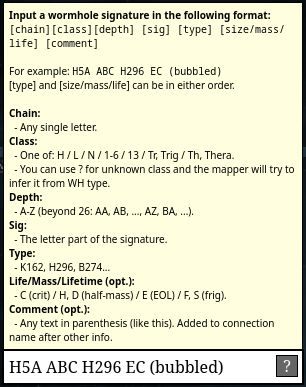
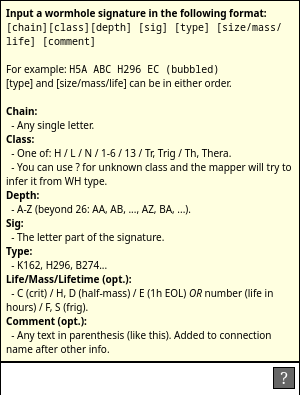
Update readme and screenshot

Changed region(s): [[0.0, 0.0, 1.0, 1.0]]

diff --git a/README.md b/README.md
@@ -17,22 +17,24 @@ The quick input box can be opened with the shortcut `Alt-S` (`Ctrl-Cmd-S` on Mac
 
 If you prefer, you can also paste the wormhole string into Tripwire like you would paste sigs. This can be useful if you use the exact same syntax for in-game bookmarks; while creating the bookmark, you can just ctrl-A ctrl-C and then ctrl-V into Tripwire.
 
+**New!** You can now also paste in the contents of the bookmarks window and every valid WH in the current system will be added!
+
 The input box accepts extended Avanto bookmark syntax and always creates the connections in the *currently active system*. The main differences to the common lazy in-game bookmark are:
 
 - The wormhole type (K162, H296, B274, etc.) must be included.
 - Wormhole life/mass/size (E=EOL, C=Crit, D/H=Half-mass, F/S=frigate hole) must be included. The order of these between one another does not matter, but duplicate/conflicting identifiers are not allowed. This is optional; if omitted, the hole is assumed to be a fresh non-frigate hole.
 - An optional comment in parenthesis, such as (sig) or (DO NOT WARP), can be added to the end. This will be included in the name of the wormhole connection created.
 
-An example input is: `K5A ABC K162 ECF (bubbled)`. Assuming the currently active system is a C5 hole, this input will create the following wormhole in the currently active system:
+An example input is: `K5A ABC K162 4CF (bubbled)`. Assuming the currently active system is a C5 hole, this input will create the following wormhole in the currently active system:
 
 - Name: K5A ABC (bubbled)
-- Life: End-of-life (the "E" in "ECF")
-- Mass: Critical (the "C" in "ECF")
+- Life: 4 hours left (the "4" in "4CF")
+- Mass: Critical (the "C" in "4CF")
 - Sig type on this side: K162
-- Size: Small ships only (the "F" in "ECF")
+- Size: Small ships only (the "F" in "4CF")
 - Sig type on other side: C008 (frig holes into C5 are always this type)
 
-Had we instead input `K5A ABC K162 EC`, the sig type on the other side would be H296, because non-frigate C5>C5 connections are always this type. If we were in a C3 instead, it would be M267, the type for C5>C3 connections.
+Had we instead input `K5A ABC K162 4C`, the sig type on the other side would be H296, because non-frigate C5>C5 connections are always this type. If we were in a C3 instead, it would be M267, the type for C5>C3 connections.
 
 The box looks like this with the syntax help open. The syntax view is hidden by default though.
 
